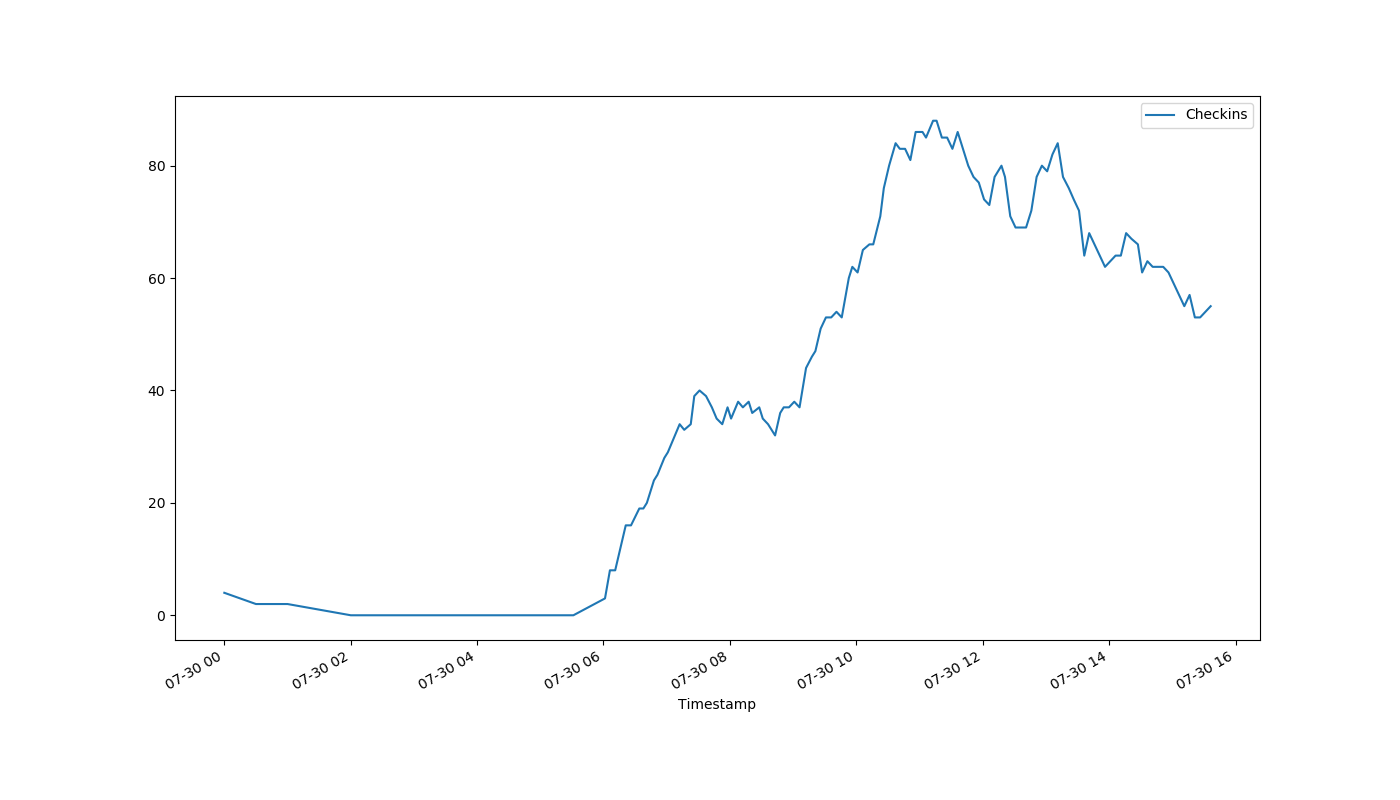
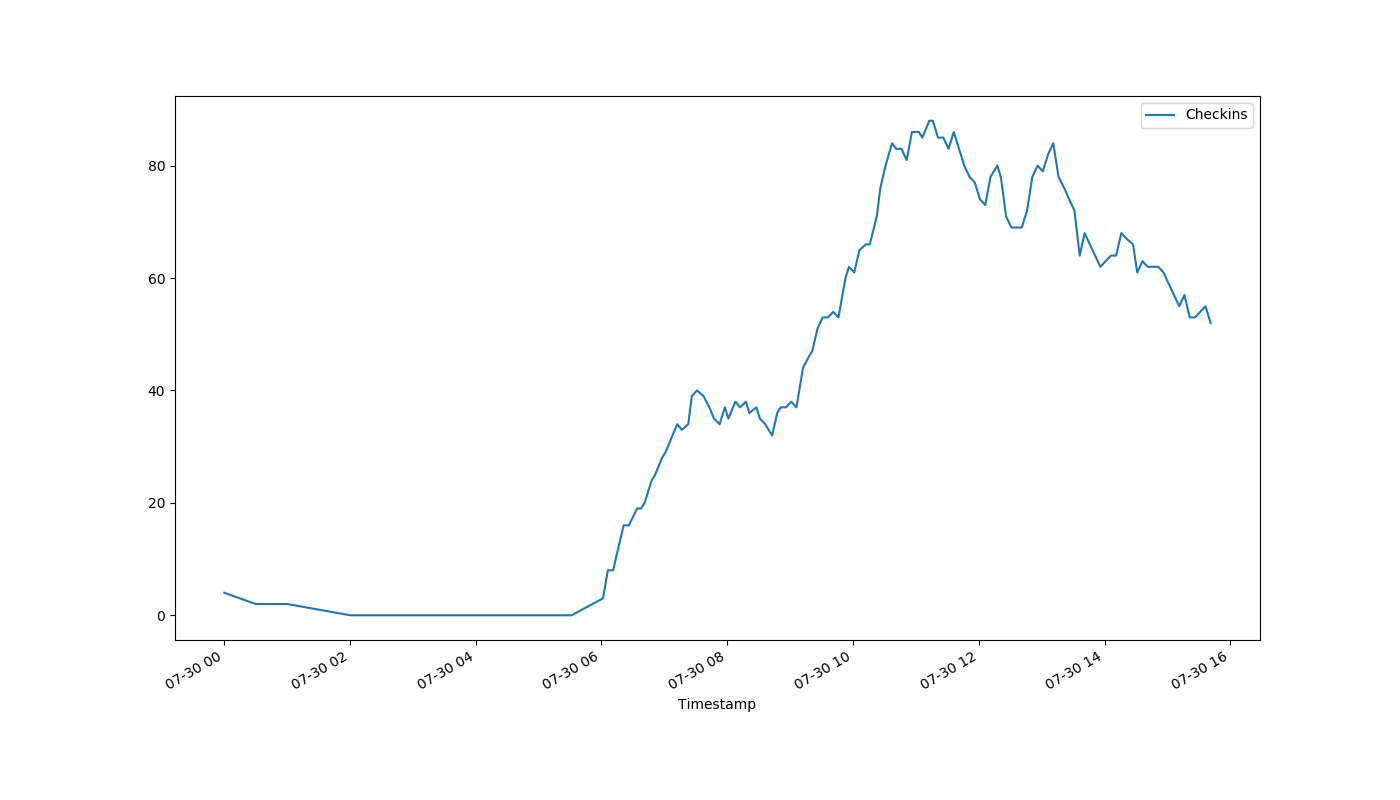
auto-Jul-30-15:42:31

diff --git a/index.html b/index.html
@@ -1,1 +1,1 @@
-<!DOCTYPE html><html><head><meta http-equiv="refresh" content="30"><link rel='stylesheet' href='holmcurrent.css'></head><body><p id='count'>55</p><div id='graph-wrap'><img id='graph' src='holmgraph-Jul-30.png'></div><p id='updated'>Last updated 15:36:19 / 15:36:18</p></body></html>
+<!DOCTYPE html><html><head><meta http-equiv="refresh" content="30"><link rel='stylesheet' href='holmcurrent.css'></head><body><p id='count'>52</p><div id='graph-wrap'><img id='graph' src='holmgraph-Jul-30.png'></div><p id='updated'>Last updated 15:42:19 / 15:41:18</p></body></html>
